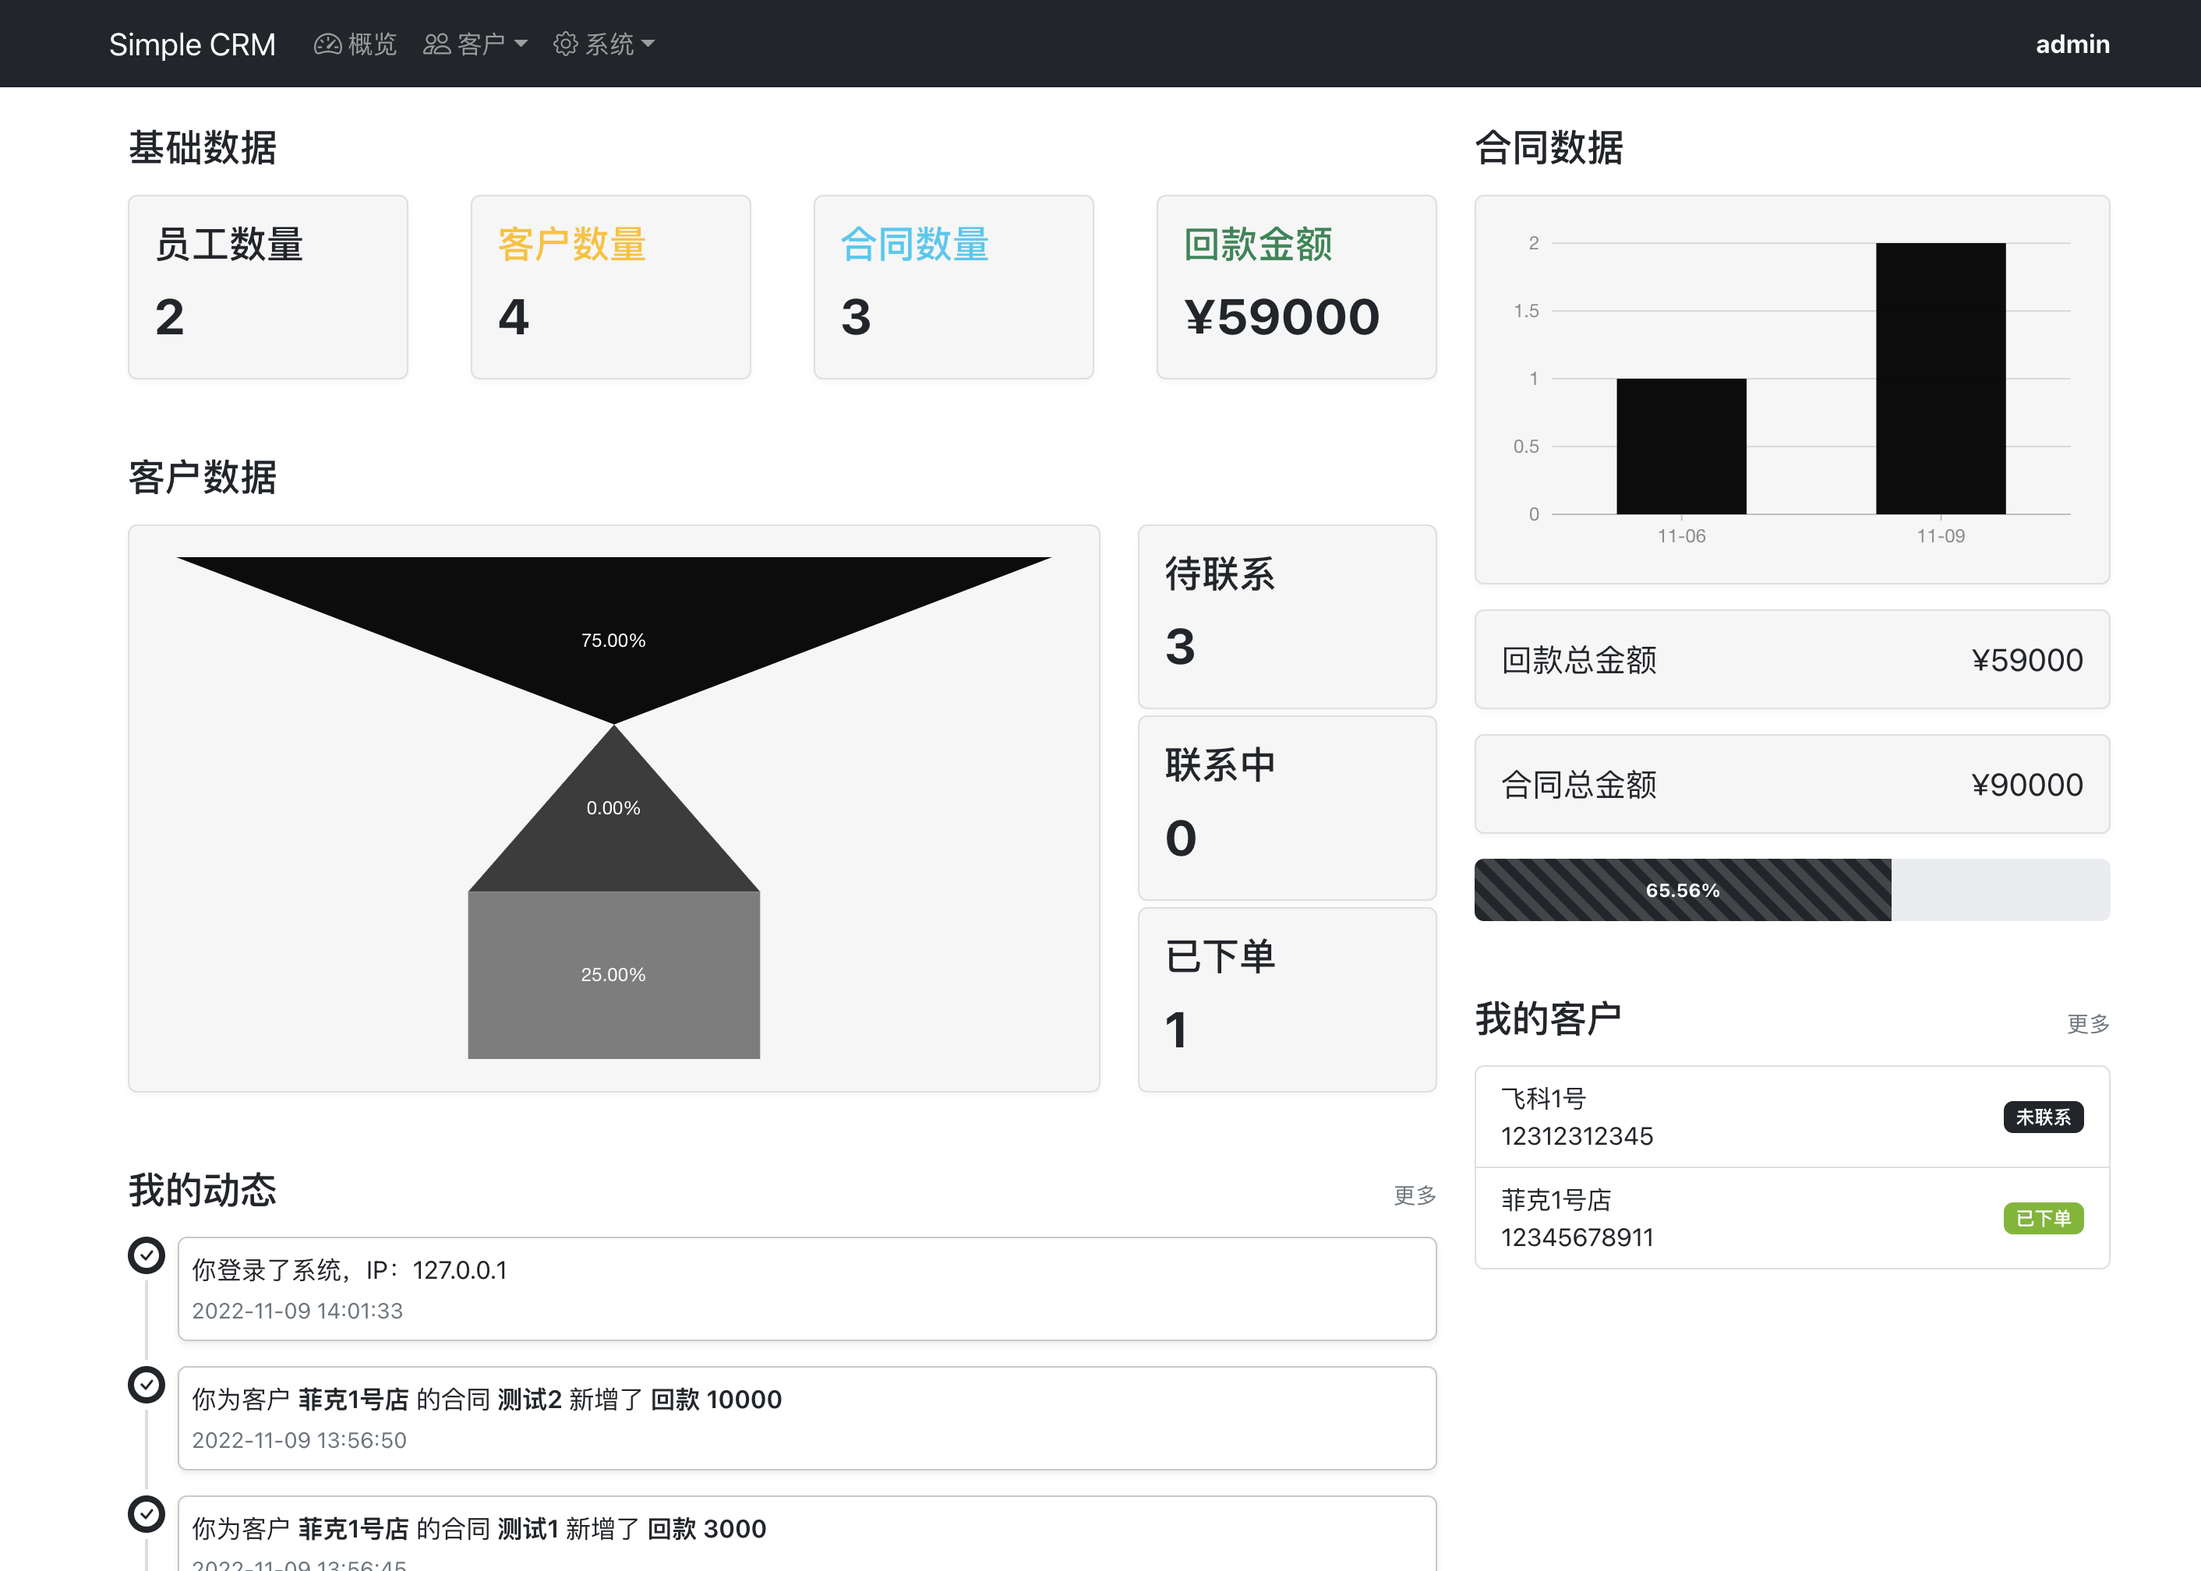
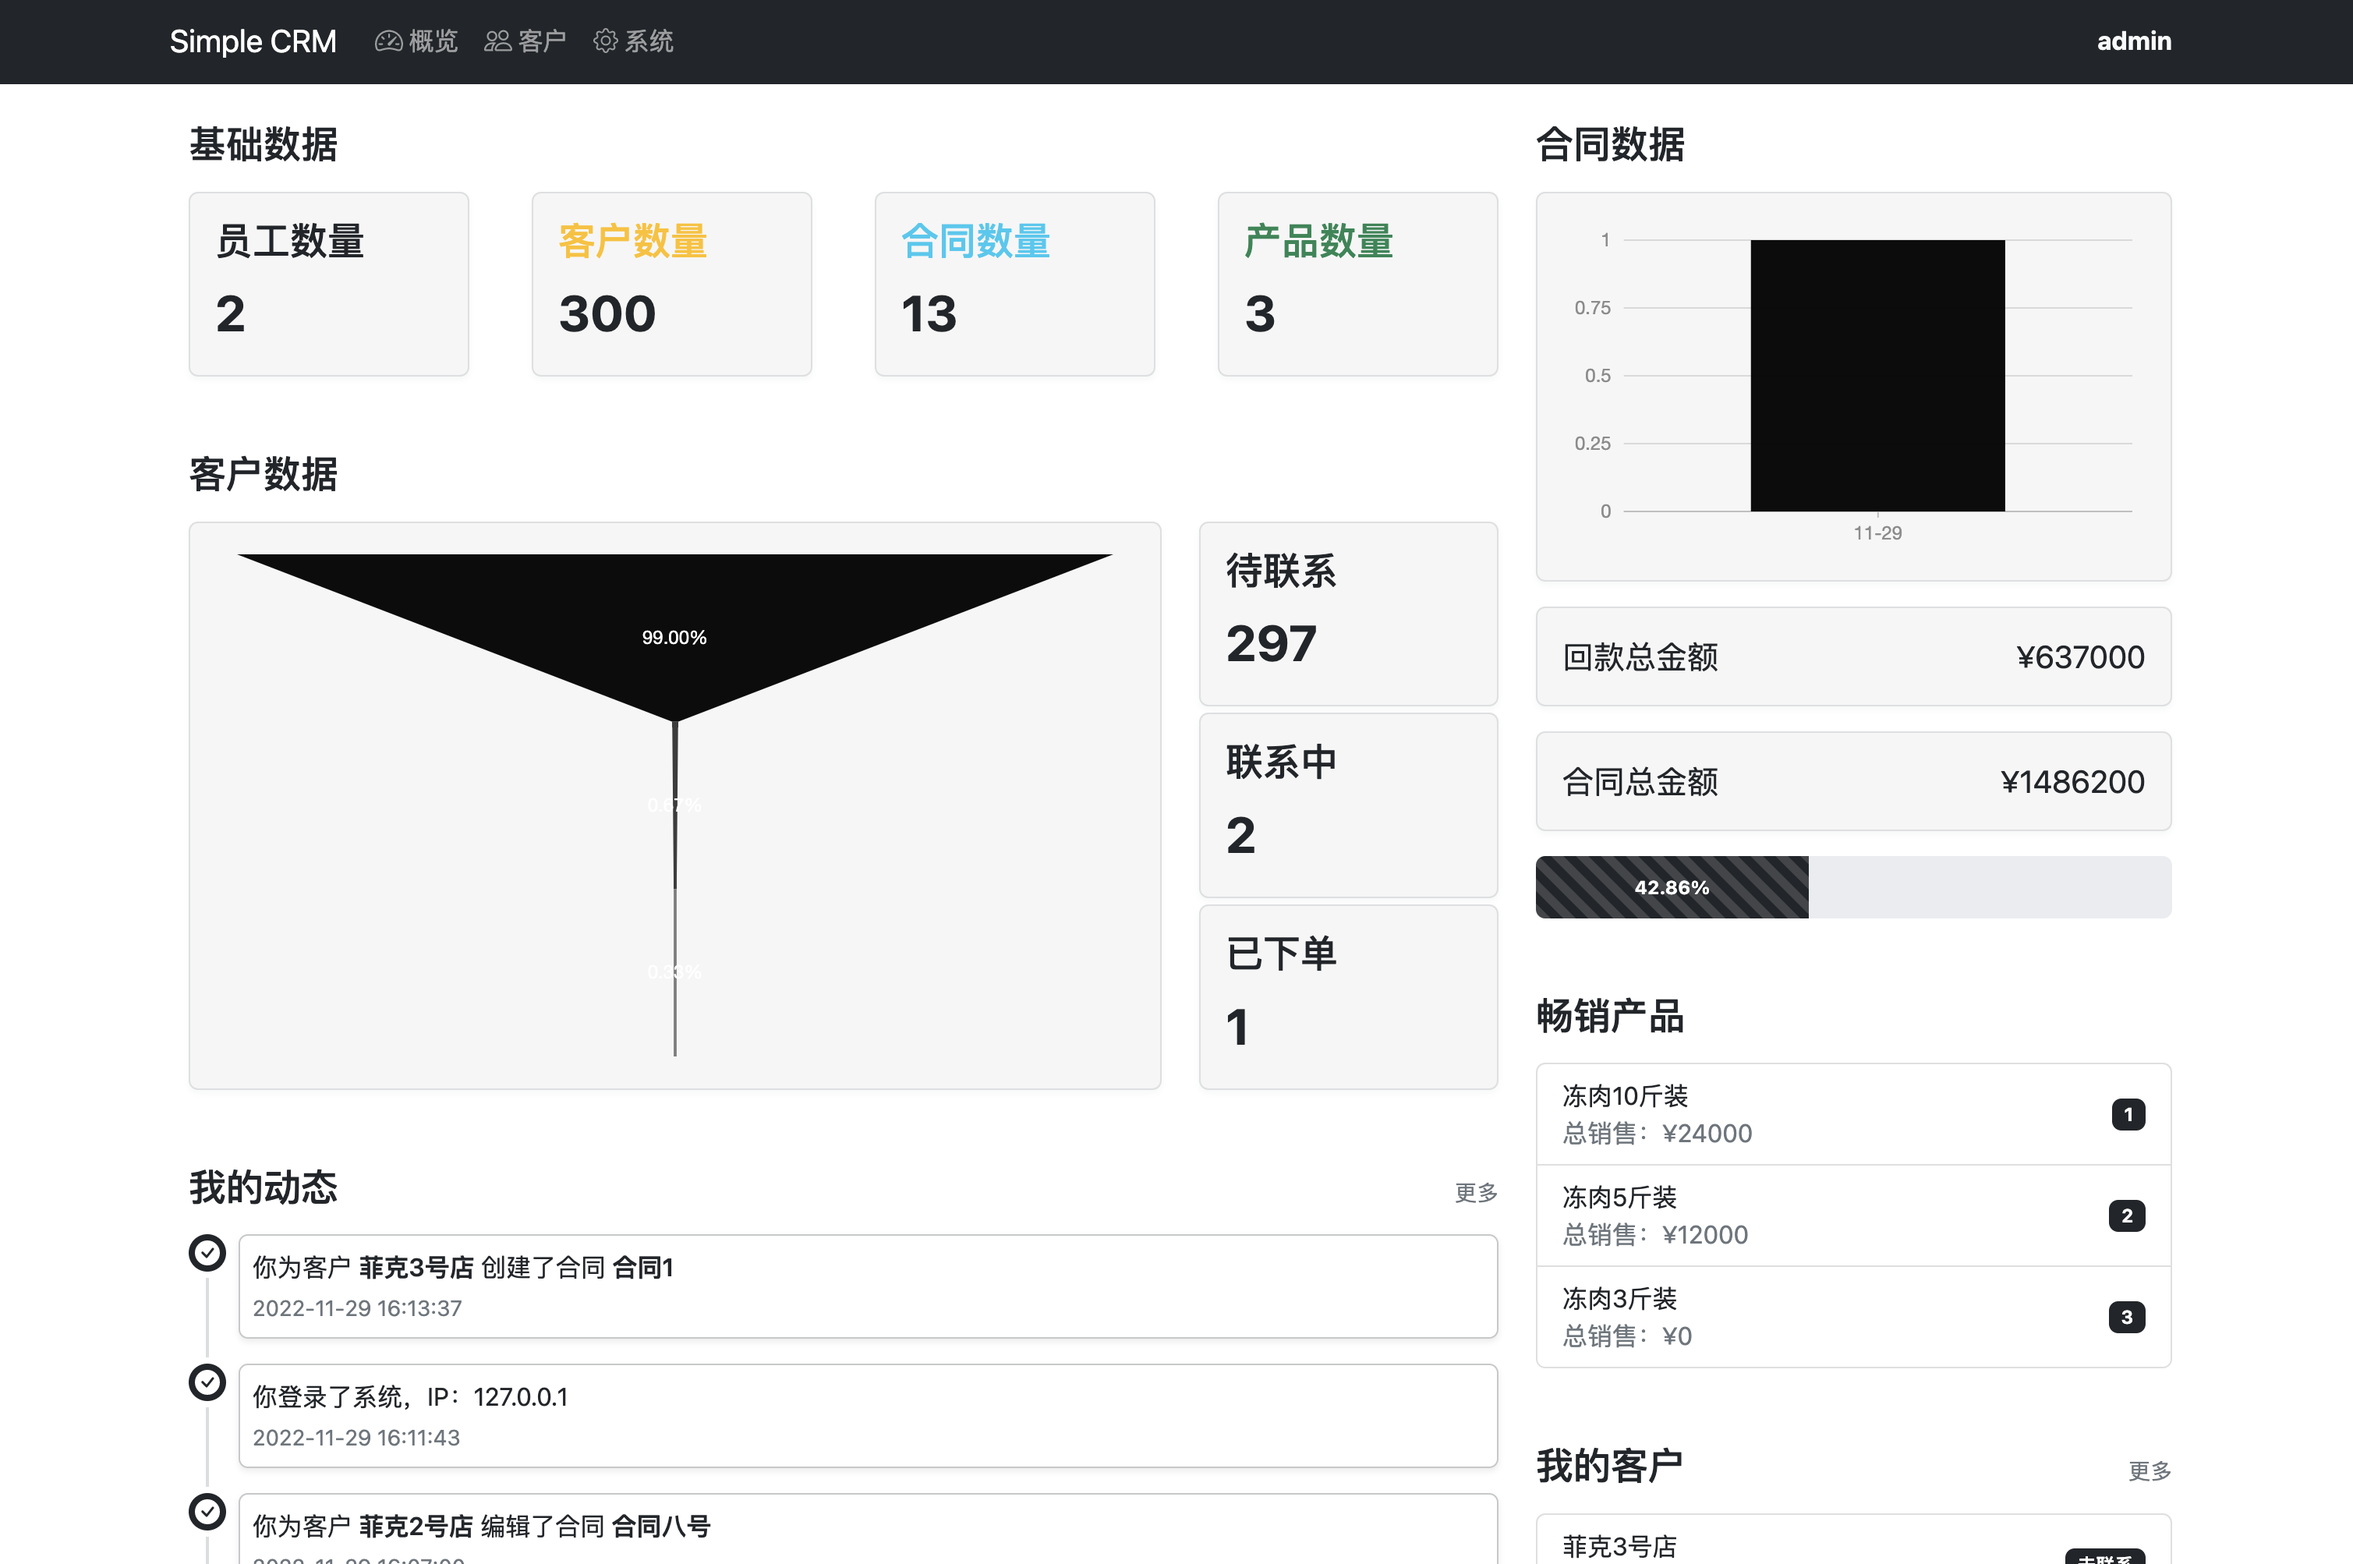
update dashboard

diff --git a/views/index.html b/views/index.html
@@ -32,10 +32,10 @@
                     </div>
                     <div class="statistic rounded mb-1 mb-lg-0">
                         <div class="d-flex justify-content-between align-items-baseline">
-                            <div class="h4 text-success">回款金额（产品数量）</div>
+                            <div class="h4 text-success">产品数量</div>
                             <div class="h6"></div>
                         </div>
-                        <div class="fw-bold fs-2">¥{{data.count.receivable}}</div>
+                        <div class="fw-bold fs-2">{{data.count.product}}</div>
                     </div>
                 </div>
             </div>
@@ -92,6 +92,12 @@
             </div>
             <div class="d-flex flex-column mb-5">
                 <div class="mb-2 d-flex justify-content-between align-items-baseline">
+                    <div class="h4 mb-0">畅销产品</div>
+                </div>
+                <div id="productRank" class="mt-2"></div>
+            </div>
+            <div class="d-flex flex-column mb-5">
+                <div class="mb-2 d-flex justify-content-between align-items-baseline">
                     <div class="h4 mb-0">我的客户</div>
                     <div class="fs-sm text-muted cursor-pointer" onclick="window.location.href='/customers/my'">更多</div>
                 </div>
@@ -117,6 +123,36 @@
             }).done(function (result) {
                 const { data } = result;
                 document.getElementById('activities').innerHTML = activities.render({ isMy: true, data });
+            });
+        },
+        async renderProductRank() {
+            $.ajax({
+                type: 'get',
+                url: '/statistic/products/rank/top',
+                data: { limit: 3 }
+            }).done(function (result) {
+                const { data } = result;
+                let row = '';
+                for (let i = 0; i < data.length; i++) {
+                    const p = data[i];
+                    row += `
+                        <li class="list-group-item">
+                            <div class="d-flex justify-content-between align-items-center">
+                                <div class="d-flex flex-column">
+                                    <div>${p.name}</div>
+                                    <div class="text-muted">总销售：¥${p.totalSales}</div>
+                                </div>
+                                <div class="badge text-bg-dark">${i + 1}</div>
+                            </div>
+                        </li>
+                    `;
+                }
+                let html = `
+                    <ul class="list-group">
+                        ${row}
+                    </ul>
+                `;
+                document.getElementById('productRank').innerHTML = html;
             });
         },
         async renderReceivableBar() {
@@ -285,6 +321,7 @@
         app.renderContractsChart();
         app.renderReceivableBar();
         app.renderFunnel();
+        app.renderProductRank();
     });
 </script>
 {% endblock script %}

diff --git a/core/routes/customers.js b/core/routes/customers.js
@@ -264,6 +264,9 @@ const customers = async function (fastify, opts) {
         // admin or owner can do this
         if (!customer || !contract || (!req.session.user.isAdmin && req.session.user.id !== customer.userId)) return reply.code(403).send();
         await fastify.db.contract.update({ data: { isCompleted: true }, where: { id: contract.id } });
+        // add product's total sales, maybe this could be put into the event?
+        const contractProducts = await fastify.db.contractProduct.findMany({ where: { contractId: contract.id } });
+        for (const item of contractProducts) await fastify.db.product.update({ where: { id: item.productId }, data: { totalSales: { increment: item.purchase * item.quantity } } });
         fastify.events.emit(events.names.CUSTOMER_CONTRACT_COMPLETE, { user: req.session.user, customer, contract });
         return reply.code(200).send();
     });

diff --git a/core/routes/statistic.js b/core/routes/statistic.js
@@ -1,6 +1,21 @@
 import dayjs from "dayjs";
+import constants from '../lib/constants.js';
 
 const statistic = async function (fastify, opts) {
+    fastify.get('/products/rank/top', async (req, reply) => {
+        let { skip, limit } = req.query;
+        skip = Number(skip) || constants.DEFAULT_PAGE_SKIP;
+        limit = Number(limit) || constants.DEFAULT_PAGE_SIZE;
+        // agg product money from contracts which have done
+        const data = await fastify.db.product.findMany({
+            orderBy: {
+                totalSales: 'desc'
+            },
+            skip,
+            take: limit
+        });
+        return reply.code(200).send({ data });
+    });
     fastify.get('/contracts/last7days', async (req, reply) => {
         // 取前7天数据，然后做聚合
         const now = new Date();

diff --git a/core/routes/home.js b/core/routes/home.js
@@ -9,9 +9,8 @@ const home = async function (fastify, opts) {
         const user = await fastify.db.user.count();
         const contract = await fastify.db.contract.count();
         const customer = await fastify.db.customer.count();
-        const receivable = (await fastify.db.receivable.aggregate({ _sum: { amount: true } }))._sum.amount;
-
-        return reply.view('index.html', { data: { count: { unLink, linking, sold, user, contract, customer, receivable } } });
+        const product = await fastify.db.product.count();
+        return reply.view('index.html', { data: { count: { unLink, linking, sold, user, contract, customer, product } } });
     });
     fastify.get('/login', async (_, reply) => reply.view('login.html'));
     fastify.get('/not-found', async (_, reply) => reply.view('not-found.html'));
